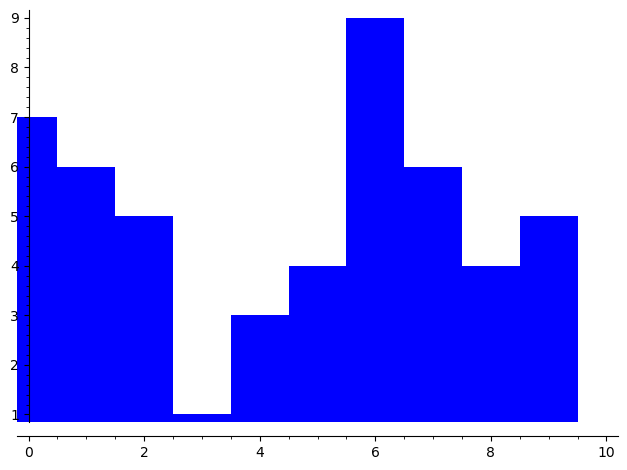
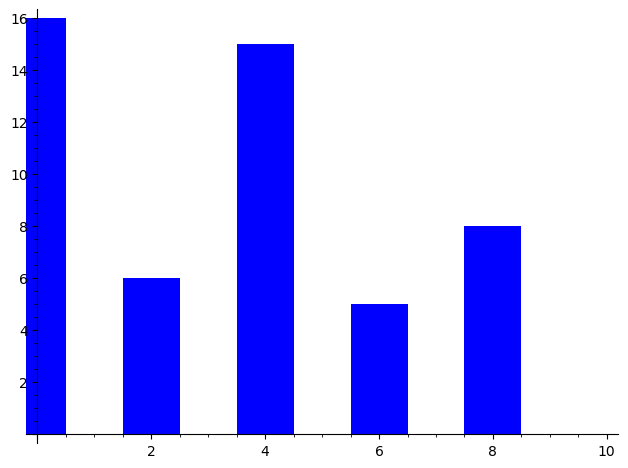
done

diff --git a/attack.sage.py b/attack.sage.py
@@ -3,7 +3,7 @@
 # This file was *autogenerated* from the file attack.sage
 from sage.all_cmdline import *   # import sage library
 
-_sage_const_300 = Integer(300); _sage_const_1 = Integer(1); _sage_const_2 = Integer(2); _sage_const_0 = Integer(0); _sage_const_10 = Integer(10); _sage_const_20 = Integer(20); _sage_const_80 = Integer(80); _sage_const_1000 = Integer(1000); _sage_const_4 = Integer(4); _sage_const_3 = Integer(3); _sage_const_5 = Integer(5); _sage_const_10000 = Integer(10000); _sage_const_11 = Integer(11); _sage_const_0p1 = RealNumber('0.1'); _sage_const_50 = Integer(50)##################################################
+_sage_const_300 = Integer(300); _sage_const_1 = Integer(1); _sage_const_2 = Integer(2); _sage_const_0 = Integer(0); _sage_const_10 = Integer(10); _sage_const_20 = Integer(20); _sage_const_80 = Integer(80); _sage_const_1000 = Integer(1000); _sage_const_4 = Integer(4); _sage_const_3 = Integer(3); _sage_const_5 = Integer(5); _sage_const_10000 = Integer(10000); _sage_const_0p1 = RealNumber('0.1'); _sage_const_50 = Integer(50)##################################################
 # RING-LWE ATTACK #
 ##################################################
 
@@ -19,6 +19,7 @@ RP = RealField(_sage_const_300 )
 # this sets the precision; if it is insufficient, the implementation won’t be valid
 
 from sage.doctest.util import Timer
+
 
 # Global choices: setup dummy values
 # --- Các biến toàn cục (Global State) ---
@@ -84,7 +85,7 @@ def setup_params(fval, qval, sval):
 def cmatrix(): # returns a matrix, columns basis 1, x, x^2, x^3, ... given in the canonical embedding
     global N, a
     # 1. Khởi tạo Trường  N sinh bởi nghiệm 'a' của f(y) = 0
-    # N[a] = Q[a] / (f(a))
+    # N = Q[x] / (f(x)); f(a) = 0 trong N
     N = NumberField(f, names=('a',)); (a,) = N._first_ngens(1)
     fdeg = f.degree()
     
@@ -139,7 +140,7 @@ def cmatrix(): # returns a matrix, columns basis 1, x, x^2, x^3, ... given in th
 
 # Make a vector in R^n into a polynomial
 # Chuyển đổi một Vector trong không gian Minkowski (R^n) về dạng Đa thức
-# a_vec: Vector tọa độ thực
+# a_vec: Vector trong R^n
 # matchange: Ma trận nghịch đảo cmi (cm^-1)
 # var: Biến của đa thức (x hoặc z)
 def make_poly(a, matchange, var):
@@ -152,7 +153,6 @@ def make_poly(a, matchange, var):
         # pol = c_0*var^0 + c_1*var^1 + ... + c_n*var^n
         pol = pol + ZZ(round(coeffs[i])) * var**i 
         # var controls where it will live (what poly ring)
-        # biến var kiểm soát xem đa thức nằm trong poly ring nào
         
     return pol
 
@@ -300,30 +300,31 @@ def create_samples(numsampsval):
     print(f"Done creating {len(samps)} samples.")
     return True
 
-
+# Produce error vectors, just a test to see how they look
 def error_test(num):
-    # In thông báo đang kiểm tra quá trình tạo nhiễu với 'num' mẫu thử
-    print(f"Testing error production for {num} samples.")
+    print(f"Testing the error vector production by producing {num} errors.")
     
-    # 1. Tạo danh sách độ dài của các vector nhiễu:
+    # Tạo danh sách độ dài của các vector nhiễu:
     # sampler(): Lấy một mẫu nhiễu e (dạng vector) từ bộ lấy mẫu Gaussian rời rạc
     # .norm(): Tính chuẩn (độ dài) của vector nhiễu đó
     # .n(): Chuyển giá trị độ dài sang dạng số thực (numerical)
     errorlist = [sampler().norm().n() for _ in range(num)]
+    meannorm = mean(errorlist)  # average norm
+    maxnorm = max(errorlist)    # maximum norm
     
-    # 2. Tính toán các giá trị thống kê cơ bản từ danh sách nhiễu
-    meannorm = mean(errorlist) # Giá trị trung bình của độ dài các vector nhiễu
-    maxnorm = max(errorlist)   # Độ dài lớn nhất ghi nhận được (nhiễu cực đại)
+    # Tính toán tỷ lệ
+    avg_ratio = RDF(meannorm / (sqrt(n) * sampler.sigma() * sqrt(_sage_const_2  * pi)))
+    max_ratio = RDF(maxnorm / (sqrt(n) * sampler.sigma() * sqrt(_sage_const_2  * pi)))
     
-    # 3. In ra kết quả kiểm tra tỉ lệ:
-    # RDF(...): Ép kiểu sang Real Double Field để hiển thị số thực ngắn gọn
-    print(f"Avg error norm: {RDF(meannorm/(sqrt(n)*sampler.sigma()*sqrt(_sage_const_2 *pi)))} times sqrt(n)*s")
+    print(f"The average error norm is {avg_ratio} times sqrt(n)*s.")
+    print(f"The maximum error norm is {max_ratio} times sqrt(n)*s.")
     
-    # if maxratio > 1:
-    #     print ("~~~~~~~~~~~~~~~~~~~~~~~ ERROR ~~~~~~~~~~~~~~~~~~~~~~~~~")
-    #     print ("The errors do not satisfy a proven upper bound in norm.")
-
-    return True
+    if max_ratio > _sage_const_1 :
+        print("~~~~~~~~~~~~~~~~~~~~~~~ ERROR ~~~~~~~~~~~~~~~~~~~~~~~~~")
+        print("The errors do not satisfy a proven upper bound in norm.")
+        return True
+    
+    return False
 
 # Function for going down to q
 # Chuyển đổi đối tượng từ không gian Minkowski về đa thức
@@ -332,6 +333,15 @@ def go_to_q(a_vec, matchange):
     pol = make_poly(a_vec, matchange, x)
     pol_eval = pol.subs(x=_sage_const_1 )
     return Zq(pol_eval)
+
+# Create the secret mod q
+# chuyển secret về đa thức, thay giá trị x = 1, mod q
+def secret_mod_q():
+    global lift_s
+    lift_s = go_to_q(secret, cmi)
+    print("Storing the secret mod q.")
+    print("The secret is ", secret, " which becomes ", lift_s)
+    return True
 
 # Check to make sure moving to q preserves product -- the last two lines should be equal
 # Kiểm tra tính đúng đắn của phép đồng cấu (Sanity Check)
@@ -420,19 +430,14 @@ def histogram_of_errors_2():
     
     return True
 
-# Create the secret mod q
-# chuyển secret về đa thức, thay giá trị x = 1, mod q
-def secret_mod_q():
-    global lift_s
-    lift_s = go_to_q(secret, cmi)
-    print("Storing the secret mod q.")
-    print("The secret is ", secret, " which becomes ", lift_s)
-    return True
+
 
 # Algorithm 2: Đoán giá trị g (secret trong Zq := s(1) mod q)
 # reportrate controls how often it updates the status of the loop; larger = less frequently
 # quickflag = True will run only the secret and a few other values to give a quick idea if it works
 def alg2(reportrate, quickflag = False):
+    print("")
+    print("")
     print("Beginning algorithm 2.")
     numsamps = len(samps)
     a = [ _sage_const_0  for i in range(numsamps)]
@@ -475,7 +480,7 @@ def alg2(reportrate, quickflag = False):
             if Mod(g,reportrate) == Mod(_sage_const_0 ,reportrate):
                 print(f"Currently checking residue {g}")
             
-            g = Zq(g) # Chuyển số nguyên g sang vành Zq
+            g = Zq(g) # ép kiểu g sang Zq
             potential = True # Gán cờ giả định g là ứng viên tiềm năng
             ctr = _sage_const_0  # Bộ đếm số lượng mẫu mà g vượt qua
             
@@ -523,8 +528,6 @@ def alg2(reportrate, quickflag = False):
 
 
 # Run a simulation.
-# Hàm thực hiện: Chạy mô phỏng toàn bộ quá trình tấn công Ring-LWE
-# Chức năng: Điều phối các giai đoạn từ thiết lập tham số, tạo mẫu, kiểm tra thống kê đến thực thi thuật toán tấn công.
 def shebang(fval,qval,sval,numsampsval,numtrials,quickflag=False):
     global sig#, n
     print("Welcome to the Ring-LWE Attack.")
@@ -540,13 +543,15 @@ def shebang(fval,qval,sval,numsampsval,numtrials,quickflag=False):
     timer2 = Timer()
     timer.start()
     
+    print("")
+    print("") 
     print("********** PHASE 1: SETTING UP SYSTEM ")
     # Thiết lập các thông số cơ bản và chuẩn bị ma trận Minkowski
     setup_params(fval,qval,sval)
     prepare_matrices()
     
     print("Computing the adjustment factor for s.")
-    # cembs: Số lượng các cặp nghiệm phức (embeddings)
+    # cembs: Số lượng các cặp embedding phức 
     cembs = (n - len(N.embeddings(RR)))/_sage_const_2 
     # detscale: Hệ số điều chỉnh dựa trên định thức của vành (discriminant) để khớp với không gian Minkowski
     detscale = RP( ( _sage_const_2 **(-cembs)*sqrt(abs(f.discriminant())) )**(_sage_const_1 /n) ) # adjust the sigma,s
@@ -573,6 +578,8 @@ def shebang(fval,qval,sval,numsampsval,numtrials,quickflag=False):
     
     # Bắt đầu vòng lặp thử nghiệm (trials)
     for trialnum in range(numtrials):
+        print("")
+        print("")
         print("*~*~*~*~*~*~*~*~*~*~*~*~* TRIAL NUMBER ", trialnum, "*~*~*~*~*~*~*~*~*~*~*~*~*~*~*~*~")
         
         print("********** PHASE 2: CREATE SECRET AND SAMPLES")
@@ -580,11 +587,13 @@ def shebang(fval,qval,sval,numsampsval,numtrials,quickflag=False):
         create_secret()
         create_samples(numsampsval)
         
-        # Kiểm tra tính đồng cấu của hệ thống trước khi tấn công
+        # Kiểm tra 
         sanity_check()
         print("Time for Phase 2: ", timer.stop())
         
         timer.start()
+        print("")
+        print("")
         print("********** PHASE 3: HISTOGRAMS")
         # Vẽ biểu đồ phân phối lỗi và các giá trị 'a' để quan sát đặc điểm dữ liệu
         histogram_of_errors()
@@ -596,8 +605,13 @@ def shebang(fval,qval,sval,numsampsval,numtrials,quickflag=False):
         histogram_of_errors_2()
         print("The histogram of sample errors (above) should be clustered at edges for success.")
         print("Time for Phase 3: ", timer.stop())
+
+        input(f"Lần thử {trialnum}. Nhấn Enter để tiếp tục...")
         
         timer.start()
+        
+        print("")
+        print("")
         print("********** PHASE 4: ATTACK ALGORITHM")
         # Tìm giá trị thực của bí mật mod q (để đối chiếu) và chạy thuật toán tấn công
         secret_mod_q()
@@ -614,28 +628,32 @@ def shebang(fval,qval,sval,numsampsval,numtrials,quickflag=False):
         
     # Kết thúc tất cả các lượt thử, dừng đồng hồ tổng
     totaltime = timer2.stop()
+    print("")
+    print("")
     print("Total time for ", trialnum+_sage_const_1 , "trials was ", totaltime)
     
     return count_successes
 
 
-# # # gọi hàm ví dụ
-# # đa thức cyclotomic bậc 4; # f(1) mod q = 0
-# f = y^4 + y^3 + y^2 + y + 1    
-# q = 5 
-# # sigma => nhiễu siêu nhỏ  q << sigma * sqrt(n)                  
-# s = 0.1                        
-
-# shebang(f, q, s, numsampsval=50, numtrials=5, quickflag=False)
-
-
-# Thử với p lớn 
-p_prime = _sage_const_11 
-f = sum(y**i for i in range(p_prime))
-q = p_prime 
-# f(1) mod q = 0
-# q << sigma * sqrt(n) => thành công
-s = _sage_const_0p1 
+# # gọi hàm ví dụ
+# đa thức cyclotomic bậc 4; # f(1) mod q = 0
+f = y**_sage_const_4  + y**_sage_const_3  + y**_sage_const_2  + y + _sage_const_1     
+q = _sage_const_5  
+# chọn s sao cho:  q << sigma * sqrt(n) 
+# sigma = s/sqrt(2*pi)                 
+s = _sage_const_0p1                        
 
 shebang(f, q, s, numsampsval=_sage_const_50 , numtrials=_sage_const_5 , quickflag=False)
+
+
+# # Thử với p lớn 
+# p_prime = 11
+# f = sum(y^i for i in range(p_prime))
+# q = p_prime 
+# # f(1) mod q = 0
+# chọn s sao cho:  q << sigma * sqrt(n) 
+# sigma = s/sqrt(2*pi)   
+# s = 0.1
+
+# shebang(f, q, s, numsampsval=50, numtrials=5, quickflag=False)
 